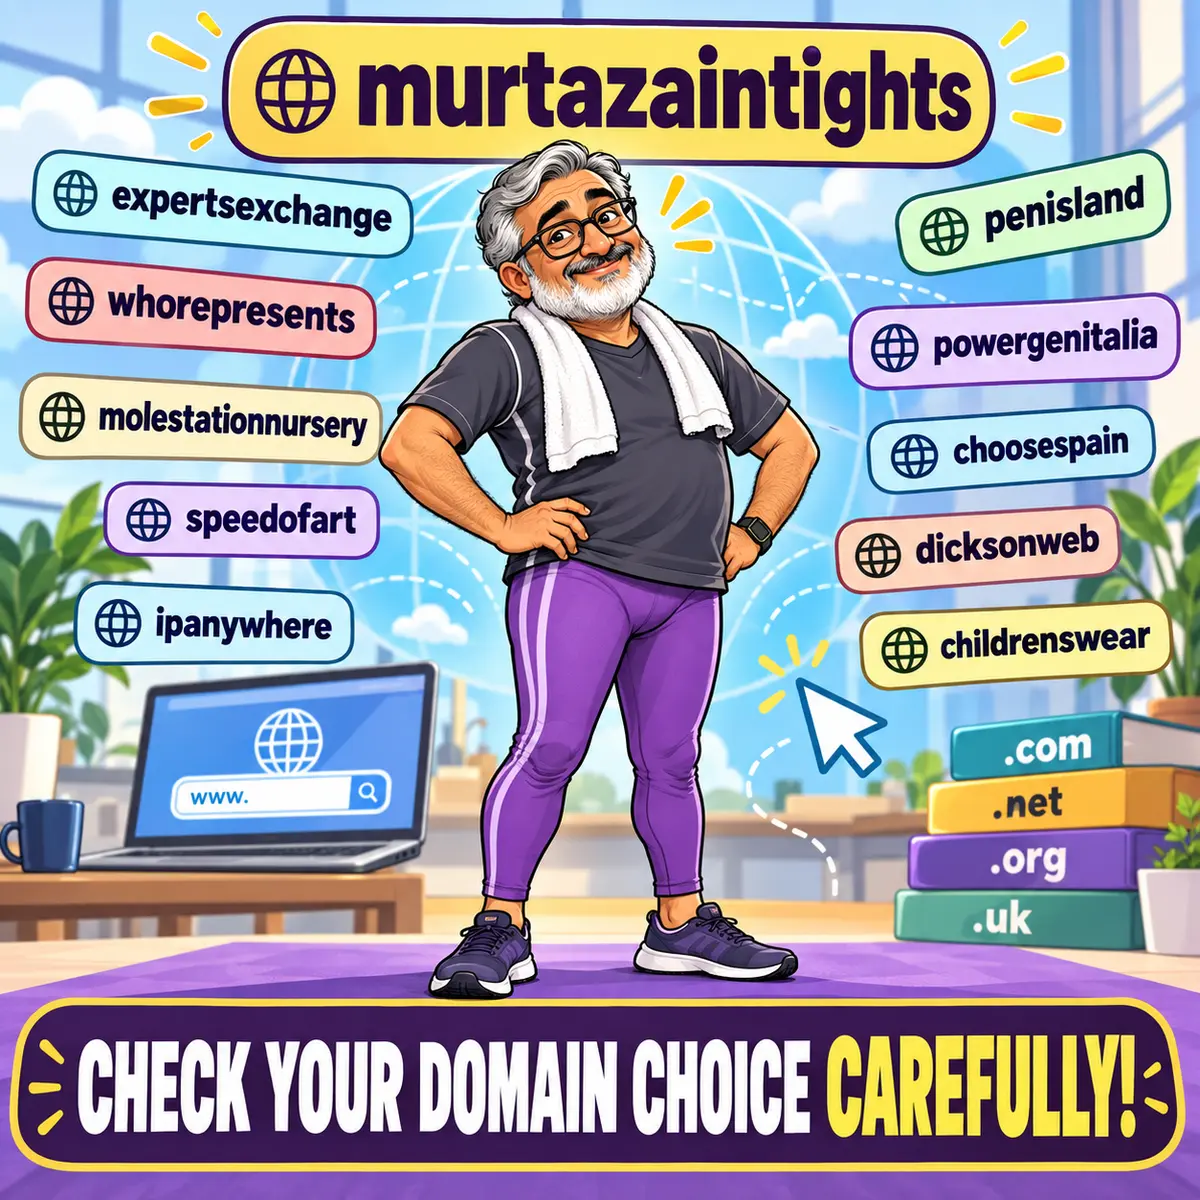
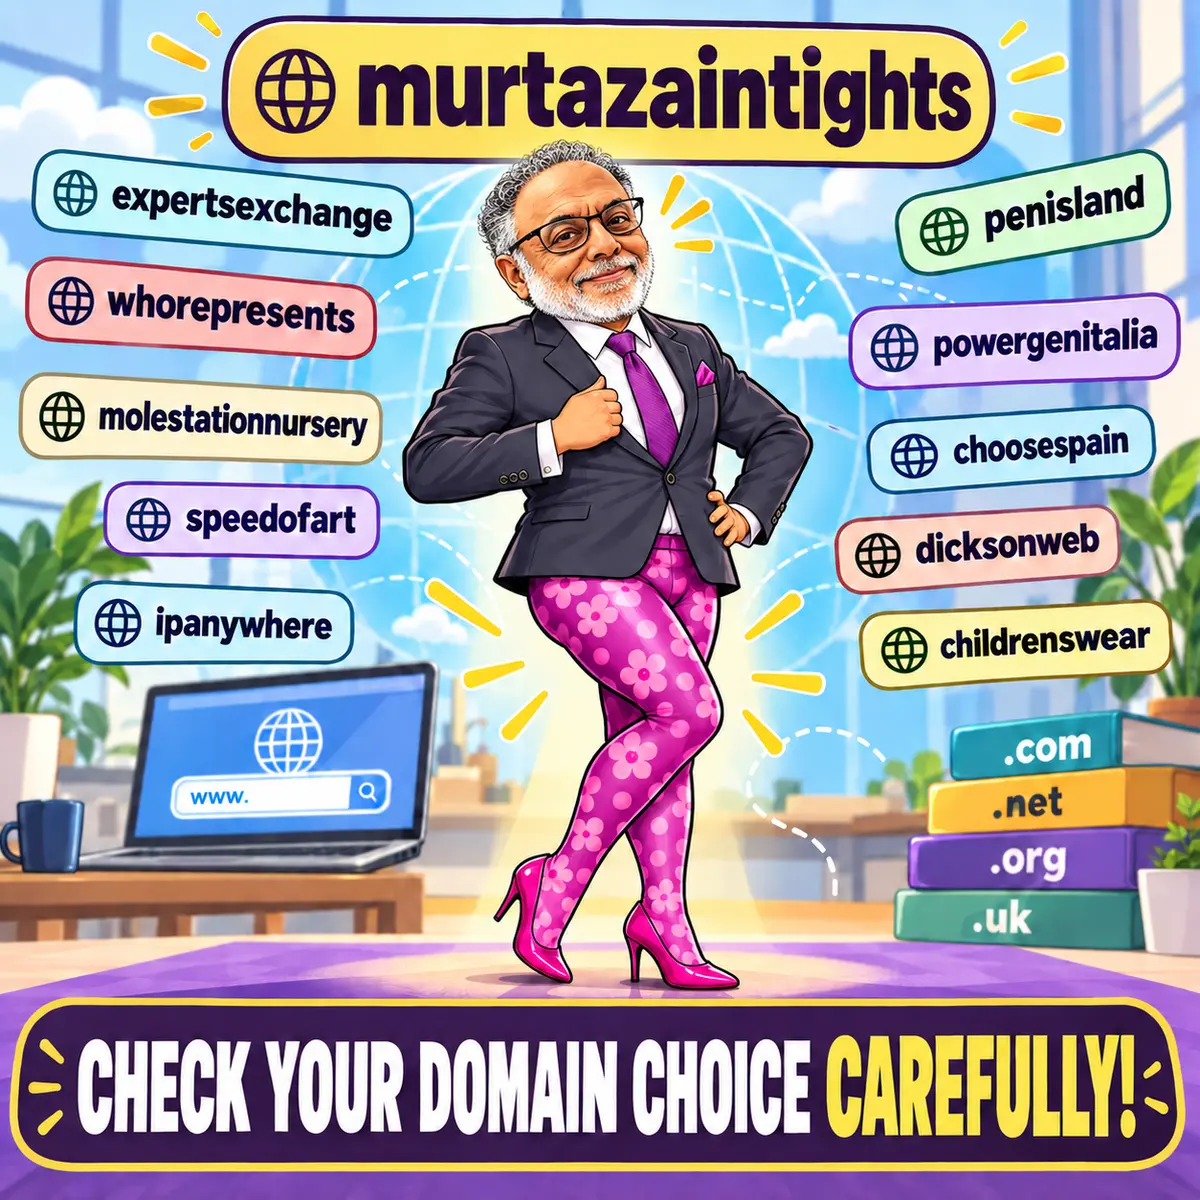
Use final domain meme and enlarge Funny Bizz title

diff --git a/src/styles/global.css b/src/styles/global.css
@@ -310,10 +310,11 @@ footer {
 }
 .lighter-head h1 {
   font-family: "Jolly Lodger", fantasy;
+  font-size: clamp(3.2rem, 7vw, 5.5rem);
   font-weight: 400;
   margin-bottom: 0.25rem;
   text-transform: uppercase;
-  letter-spacing: 0.025em;
+  letter-spacing: 0.08em;
 }
 .lighter-head .lighter-subtitle {
   max-width: none;
